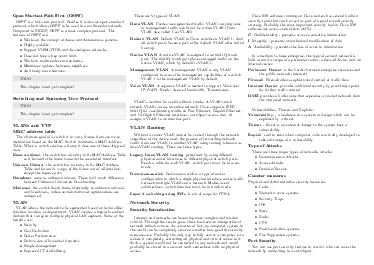
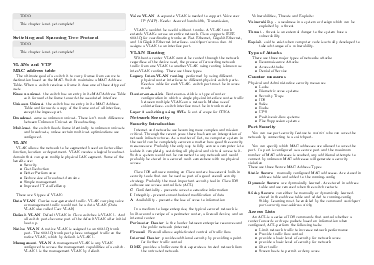
Lists more compact

diff --git a/summary.tex b/summary.tex
@@ -1,6 +1,7 @@
 \documentclass[10pt,landscape]{article}
 \usepackage{multicol}
 \usepackage{calc}
+\usepackage{enumitem}
 \usepackage{ifthen}
 \usepackage[a4paper,landscape]{geometry}
 \usepackage{hyperref}
@@ -74,6 +75,9 @@
 \footnotesize
 \begin{multicols}{3}
 
+
+% Less padding for lists
+\setlist[itemize]{noitemsep, topsep=0pt}
 
 % multicol parameters
 % These lengths are set only within the two main columns
@@ -240,21 +244,21 @@ In the simplest terms, IP Routing is the process of moving packets from its sour
     \item Be able to maintain and verify routing information
 \end{itemize}
 \paragraph{}
-The following steps are taking place when a router routes a packet. Please note that this is simplified 
-S = source 
+The following steps are taking place when a router routes a packet. Please note that this is simplified
+S = source
 D = Destination
 M = MAC
-A = ARP 
+A = ARP
 G = default gateway
-R = router 
+R = router
 \begin{description}
 	\item[Step 1] Determine on same network by doing AND operation on S and D
-	\item[Step 2] if D is the same network use ARP-table for the MAC if not use G 
-	\item[Step 3] if package not the same network use G 
-	\item[Step 4] R examines the M 
-	\item[Step 5] if M is in the routing table sends frame towards corresponding interface 
-	\item[Step 6] if R does not have a match look for G 
-	\item[Step 7] if there is no G present drop package 
+	\item[Step 2] if D is the same network use ARP-table for the MAC if not use G
+	\item[Step 3] if package not the same network use G
+	\item[Step 4] R examines the M
+	\item[Step 5] if M is in the routing table sends frame towards corresponding interface
+	\item[Step 6] if R does not have a match look for G
+	\item[Step 7] if there is no G present drop package
 \end{description}
 \paragraph{}
 As you would have realized by now, the essence of routing is how the router learns about the remote networks. Routing information is stored in the routing table also called the Routing Information Base (RIB). The RIB consists of routes to destination networks.
@@ -266,7 +270,7 @@ for direct connected entries the RIB looks liks this:
 	\item[Outgoing interface]  Identifies the exit interface to use when forwarding packets to the destination network
 \end{description}
 \paragraph{}
-For remote connected entries the RIB looks like this:  
+For remote connected entries the RIB looks like this:
  \begin{description}
 	\item[Route Source] Identifies how the route was learned
 	\item[Destination network]The address of the remote network and how that network is connected
